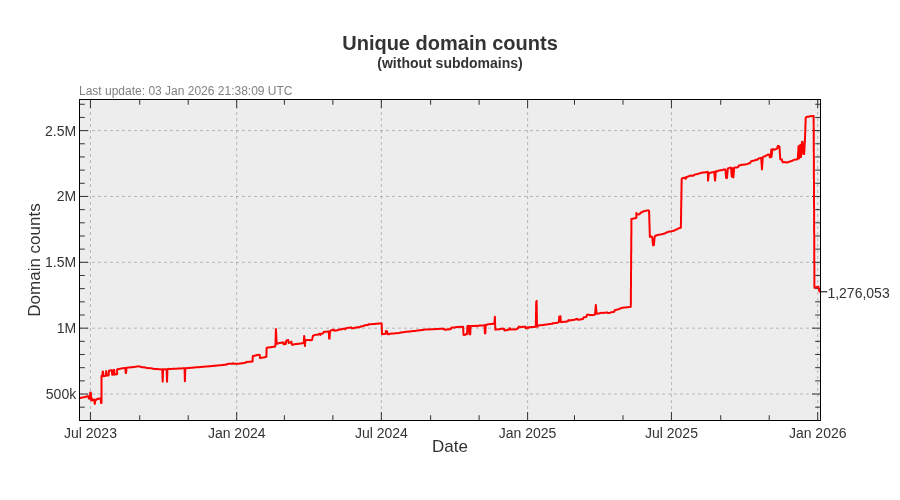
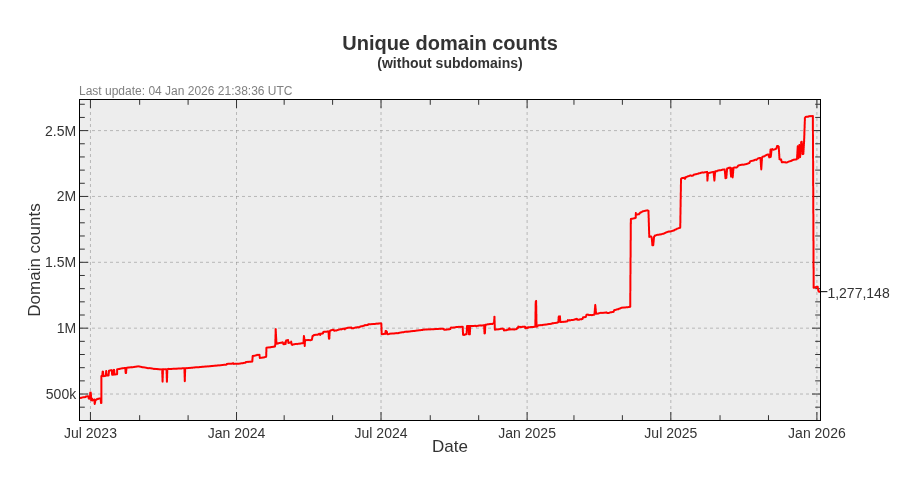
Update pages

diff --git a/README.md b/README.md
@@ -3,22 +3,22 @@ A blocklist file for blocking ads, trackers and malware domains.
 
[1 lines of base64/hex data omitted]
 
-- Unique domains: 1,919,386
-- Without subdomains: 1,276,053
-- Last update: 03 Jan 2026 21:38:09 UTC
-- Version: 2026.01.03.01
+- Unique domains: 1,920,357
+- Without subdomains: 1,277,148
+- Last update: 04 Jan 2026 21:38:36 UTC
+- Version: 2026.01.04.01
 
 
 ### Downloads:
 
 | Format             | Domain count      | Download Link |
 |:------------------ | -----------------:|:-------------:|
-| *Adblock Plus*     | 1,276,053 | [Download](https://dl.cenk.app/bad-hosts/bad-hosts-abp) |
-| *Wildcard domains* | 1,276,053 | [Download](https://dl.cenk.app/bad-hosts/bad-hosts-wildcard) |
-| *dnsmasq*          | 1,276,053 | [Download](https://dl.cenk.app/bad-hosts/bad-hosts-dnsmasq) |
-| *hosts*            | 1,919,386 | [Download](https://dl.cenk.app/bad-hosts/hosts) |
-| *hosts (ipv6)*     | 1,919,386 | [Download](https://dl.cenk.app/bad-hosts/hosts-ipv6) |
-| *Plain domains*    | 1,919,386 | [Download](https://dl.cenk.app/bad-hosts/bad-hosts-domains) |
+| *Adblock Plus*     | 1,277,148 | [Download](https://dl.cenk.app/bad-hosts/bad-hosts-abp) |
+| *Wildcard domains* | 1,277,148 | [Download](https://dl.cenk.app/bad-hosts/bad-hosts-wildcard) |
+| *dnsmasq*          | 1,277,148 | [Download](https://dl.cenk.app/bad-hosts/bad-hosts-dnsmasq) |
+| *hosts*            | 1,920,357 | [Download](https://dl.cenk.app/bad-hosts/hosts) |
+| *hosts (ipv6)*     | 1,920,357 | [Download](https://dl.cenk.app/bad-hosts/hosts-ipv6) |
+| *Plain domains*    | 1,920,357 | [Download](https://dl.cenk.app/bad-hosts/bad-hosts-domains) |
 
 ### Domain count history
 #### With subdomains
